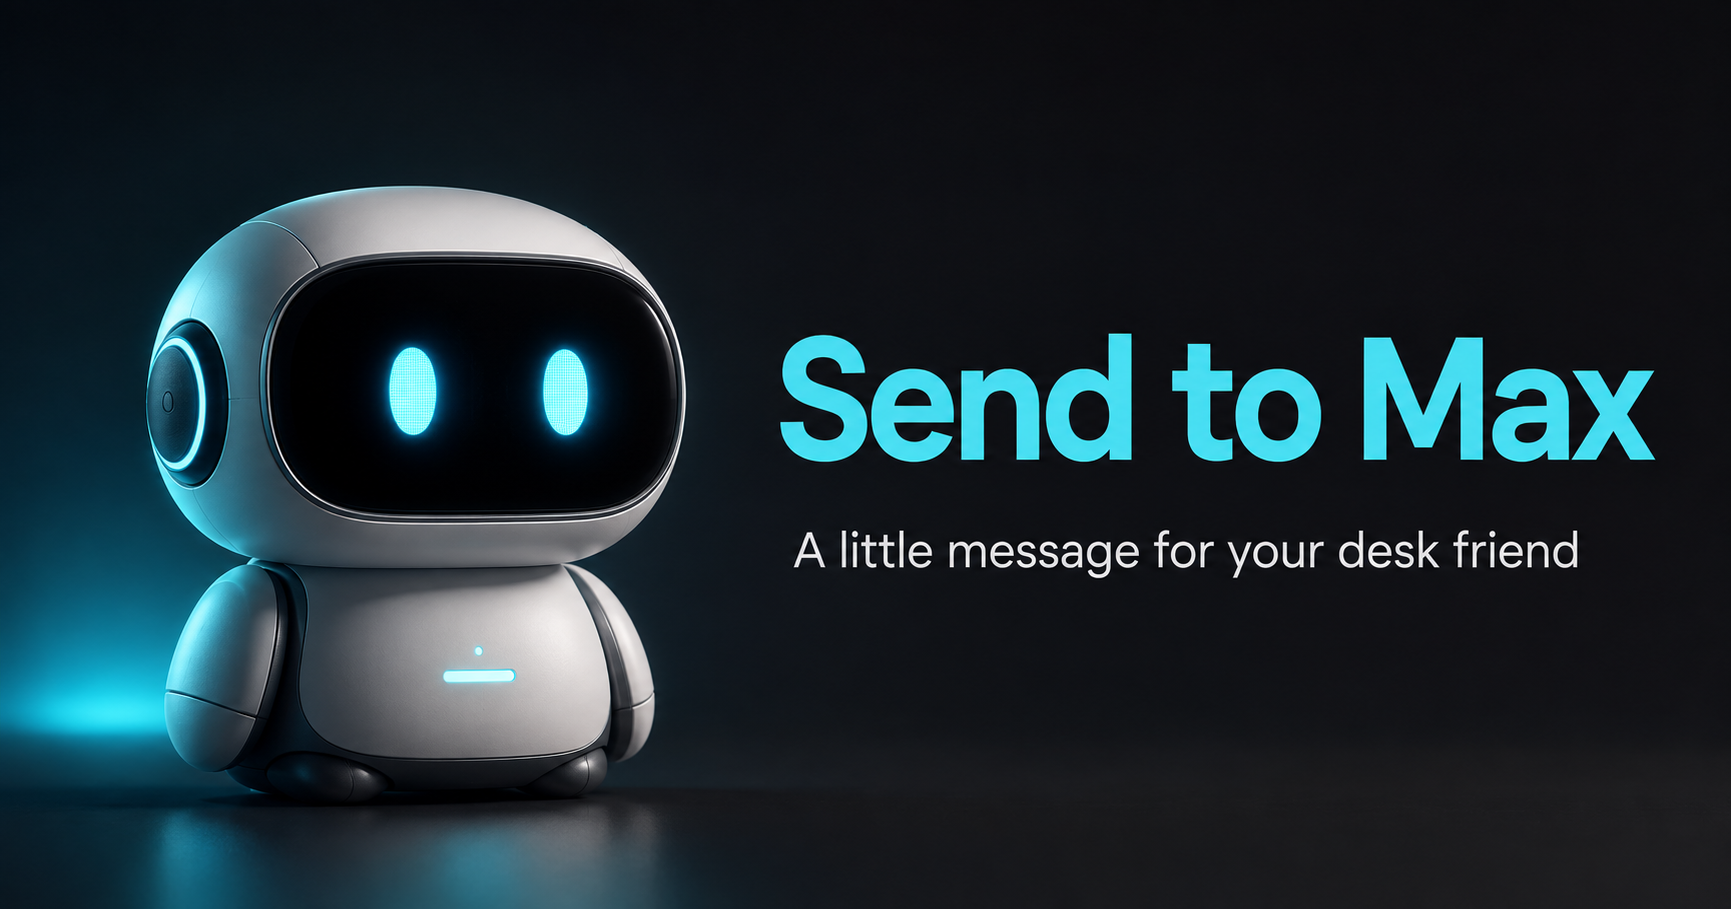
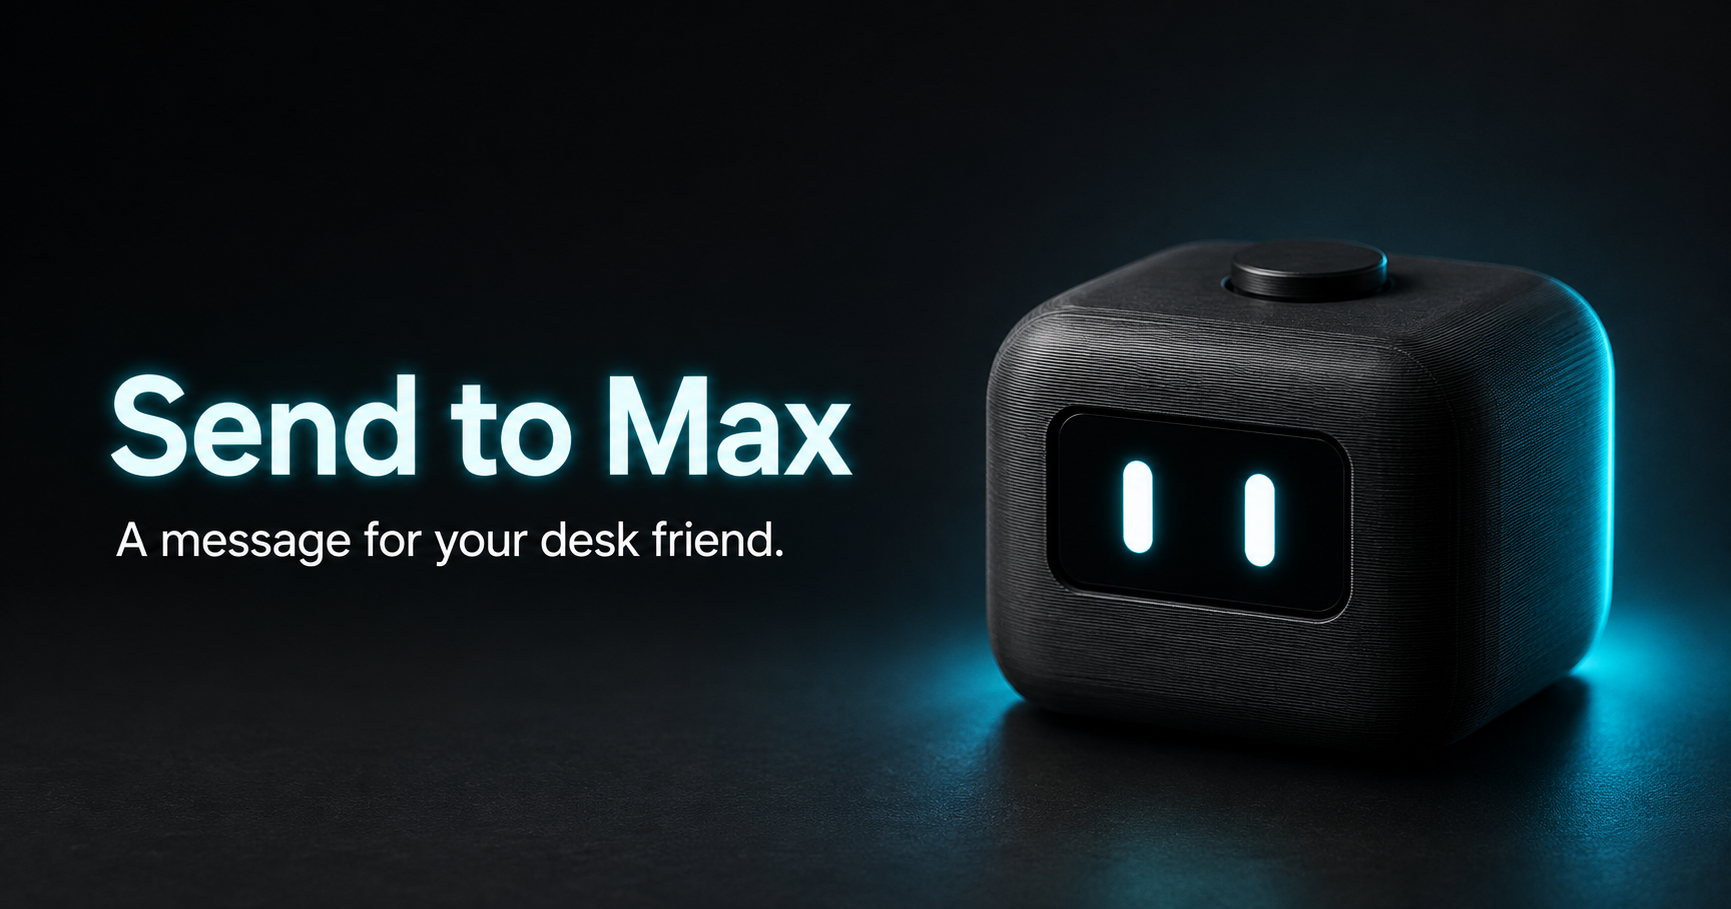
new eyes

diff --git a/app/globals.css b/app/globals.css
@@ -156,63 +156,33 @@ body {
     linear-gradient(160deg, #0c1218 0%, #070a0e 100%);
 }
 
-.robot-shell {
+.robot-portrait {
   position: relative;
-  display: grid;
-  place-items: center;
-  width: min(82%, 290px);
-  aspect-ratio: 1.7;
+  width: min(88%, 310px);
+  aspect-ratio: 1;
   margin-inline: auto;
-  border: 1px solid rgb(255 255 255 / 12%);
-  border-radius: 30px;
-  background: linear-gradient(145deg, #343d47, #1a2027 65%);
+  overflow: hidden;
+  border: 1px solid rgb(103 232 249 / 12%);
+  border-radius: 28px;
+  background: #090d12;
   box-shadow:
-    inset 1px 1px rgb(255 255 255 / 9%),
-    inset -8px -10px 24px rgb(0 0 0 / 20%),
-    0 24px 45px rgb(0 0 0 / 34%);
+    inset 0 0 36px rgb(34 211 238 / 5%),
+    0 25px 50px rgb(0 0 0 / 36%);
 }
 
-.robot-button {
-  position: absolute;
-  top: -7px;
-  width: 38px;
-  height: 12px;
-  border-radius: 8px 8px 5px 5px;
-  background: linear-gradient(#4bdff4, #148ba3);
-  box-shadow: 0 2px 8px rgb(34 211 238 / 24%);
+.robot-image {
+  display: block;
+  width: 100%;
+  height: 100%;
+  object-fit: cover;
+  animation: robot-float 4.8s ease-in-out infinite;
 }
 
-.robot-screen {
-  display: flex;
-  align-items: center;
-  justify-content: center;
-  gap: 30px;
-  width: 74%;
-  height: 45%;
-  border: 1px solid rgb(255 255 255 / 8%);
-  border-radius: 12px;
-  background: #020507;
-  box-shadow: inset 0 0 24px #000, 0 1px rgb(255 255 255 / 8%);
-}
-
-.robot-eye {
-  width: 46px;
-  height: 17px;
-  border-radius: 50%;
-  background: #dffcff;
-  box-shadow: 0 0 7px #dffcff, 0 0 18px #22d3ee;
-  animation: robot-blink 4.4s ease-in-out infinite;
-}
-
-.robot-eye:last-child {
-  animation-delay: 0.04s;
-}
-
-@keyframes robot-blink {
-  0%, 42%, 48%, 100% { transform: scaleY(1); }
-  45% { transform: scaleY(0.08); }
+@keyframes robot-float {
+  0%, 100% { transform: translateY(0) scale(1.015); }
+  50% { transform: translateY(-4px) scale(1.015); }
 }
 
 @media (prefers-reduced-motion: reduce) {
-  .robot-eye { animation: none; }
+  .robot-image { animation: none; }
 }

diff --git a/app/max-app.tsx b/app/max-app.tsx
@@ -78,12 +78,12 @@ export default function MaxApp() {
             </div>
           </div>
 
-          <div className="robot-shell" aria-label="Max looking at you">
-            <div className="robot-button" aria-hidden="true" />
-            <div className="robot-screen" aria-hidden="true">
-              <span className="robot-eye" />
-              <span className="robot-eye" />
-            </div>
+          <div className="robot-portrait">
+            <img
+              src="/max-robot.png"
+              alt="Max, a black 3D-printed desktop robot with two cyan eyes"
+              className="robot-image"
+            />
           </div>
 
           <div className="mt-7">
